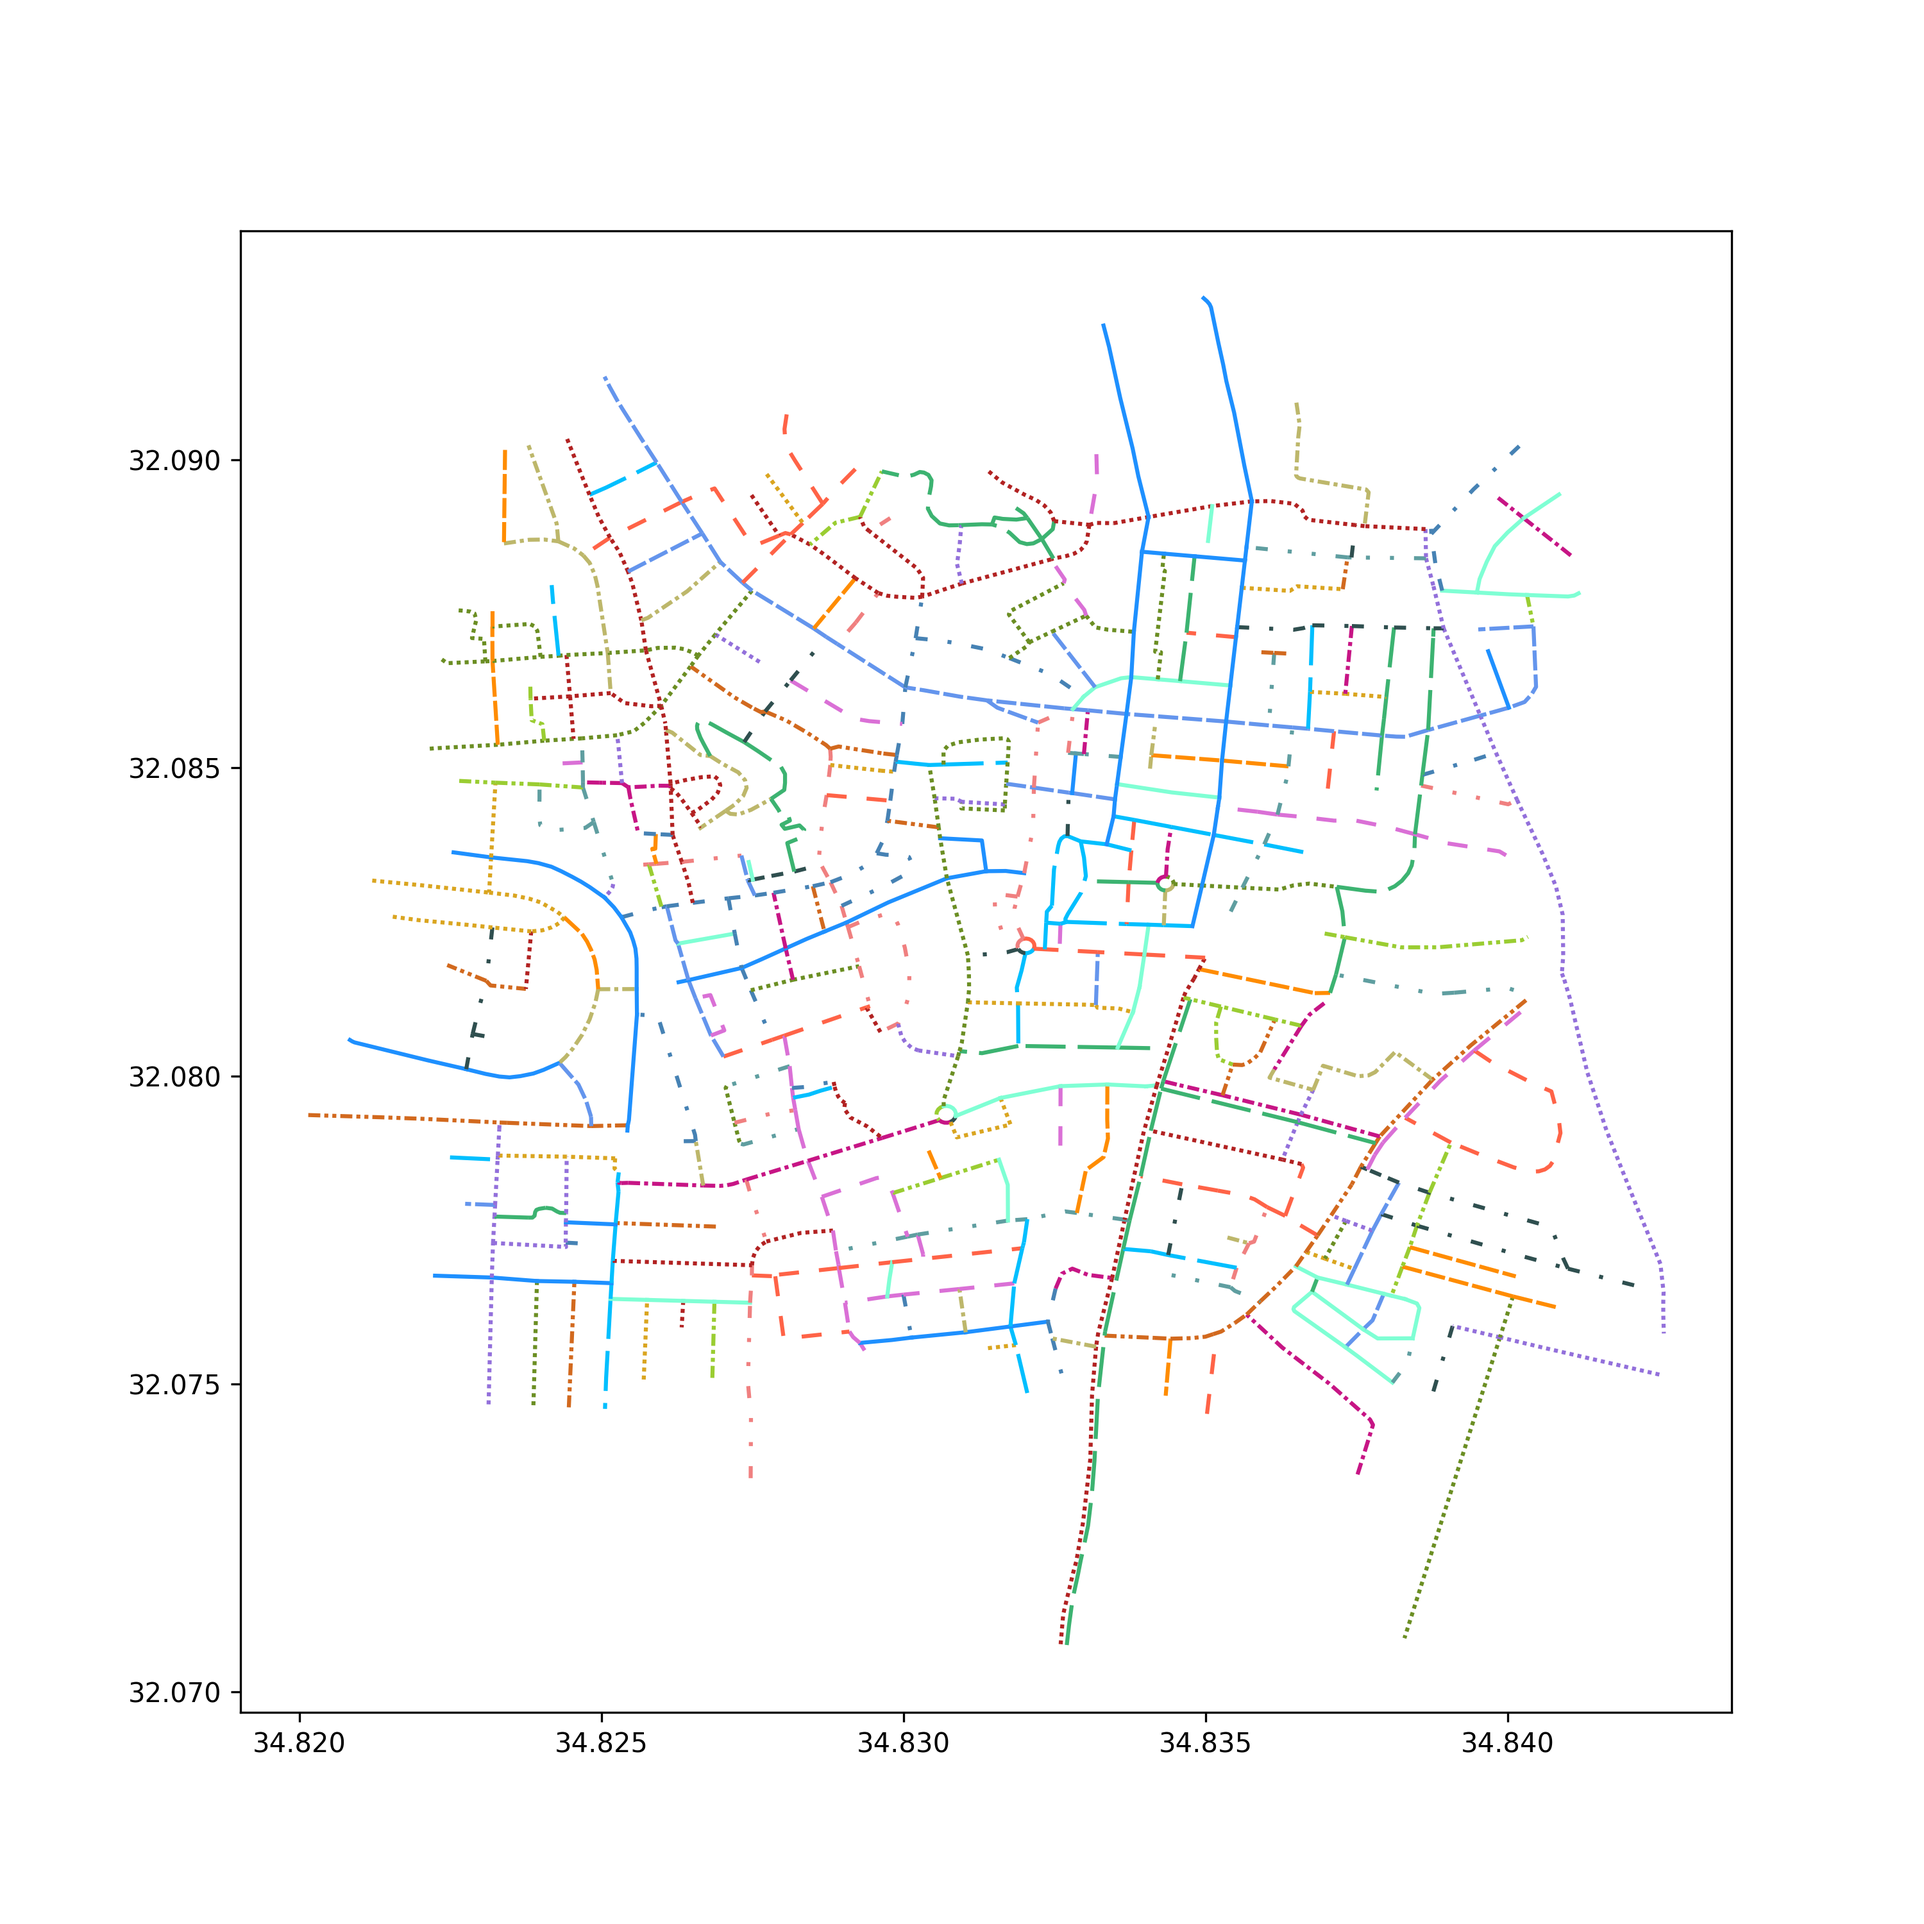
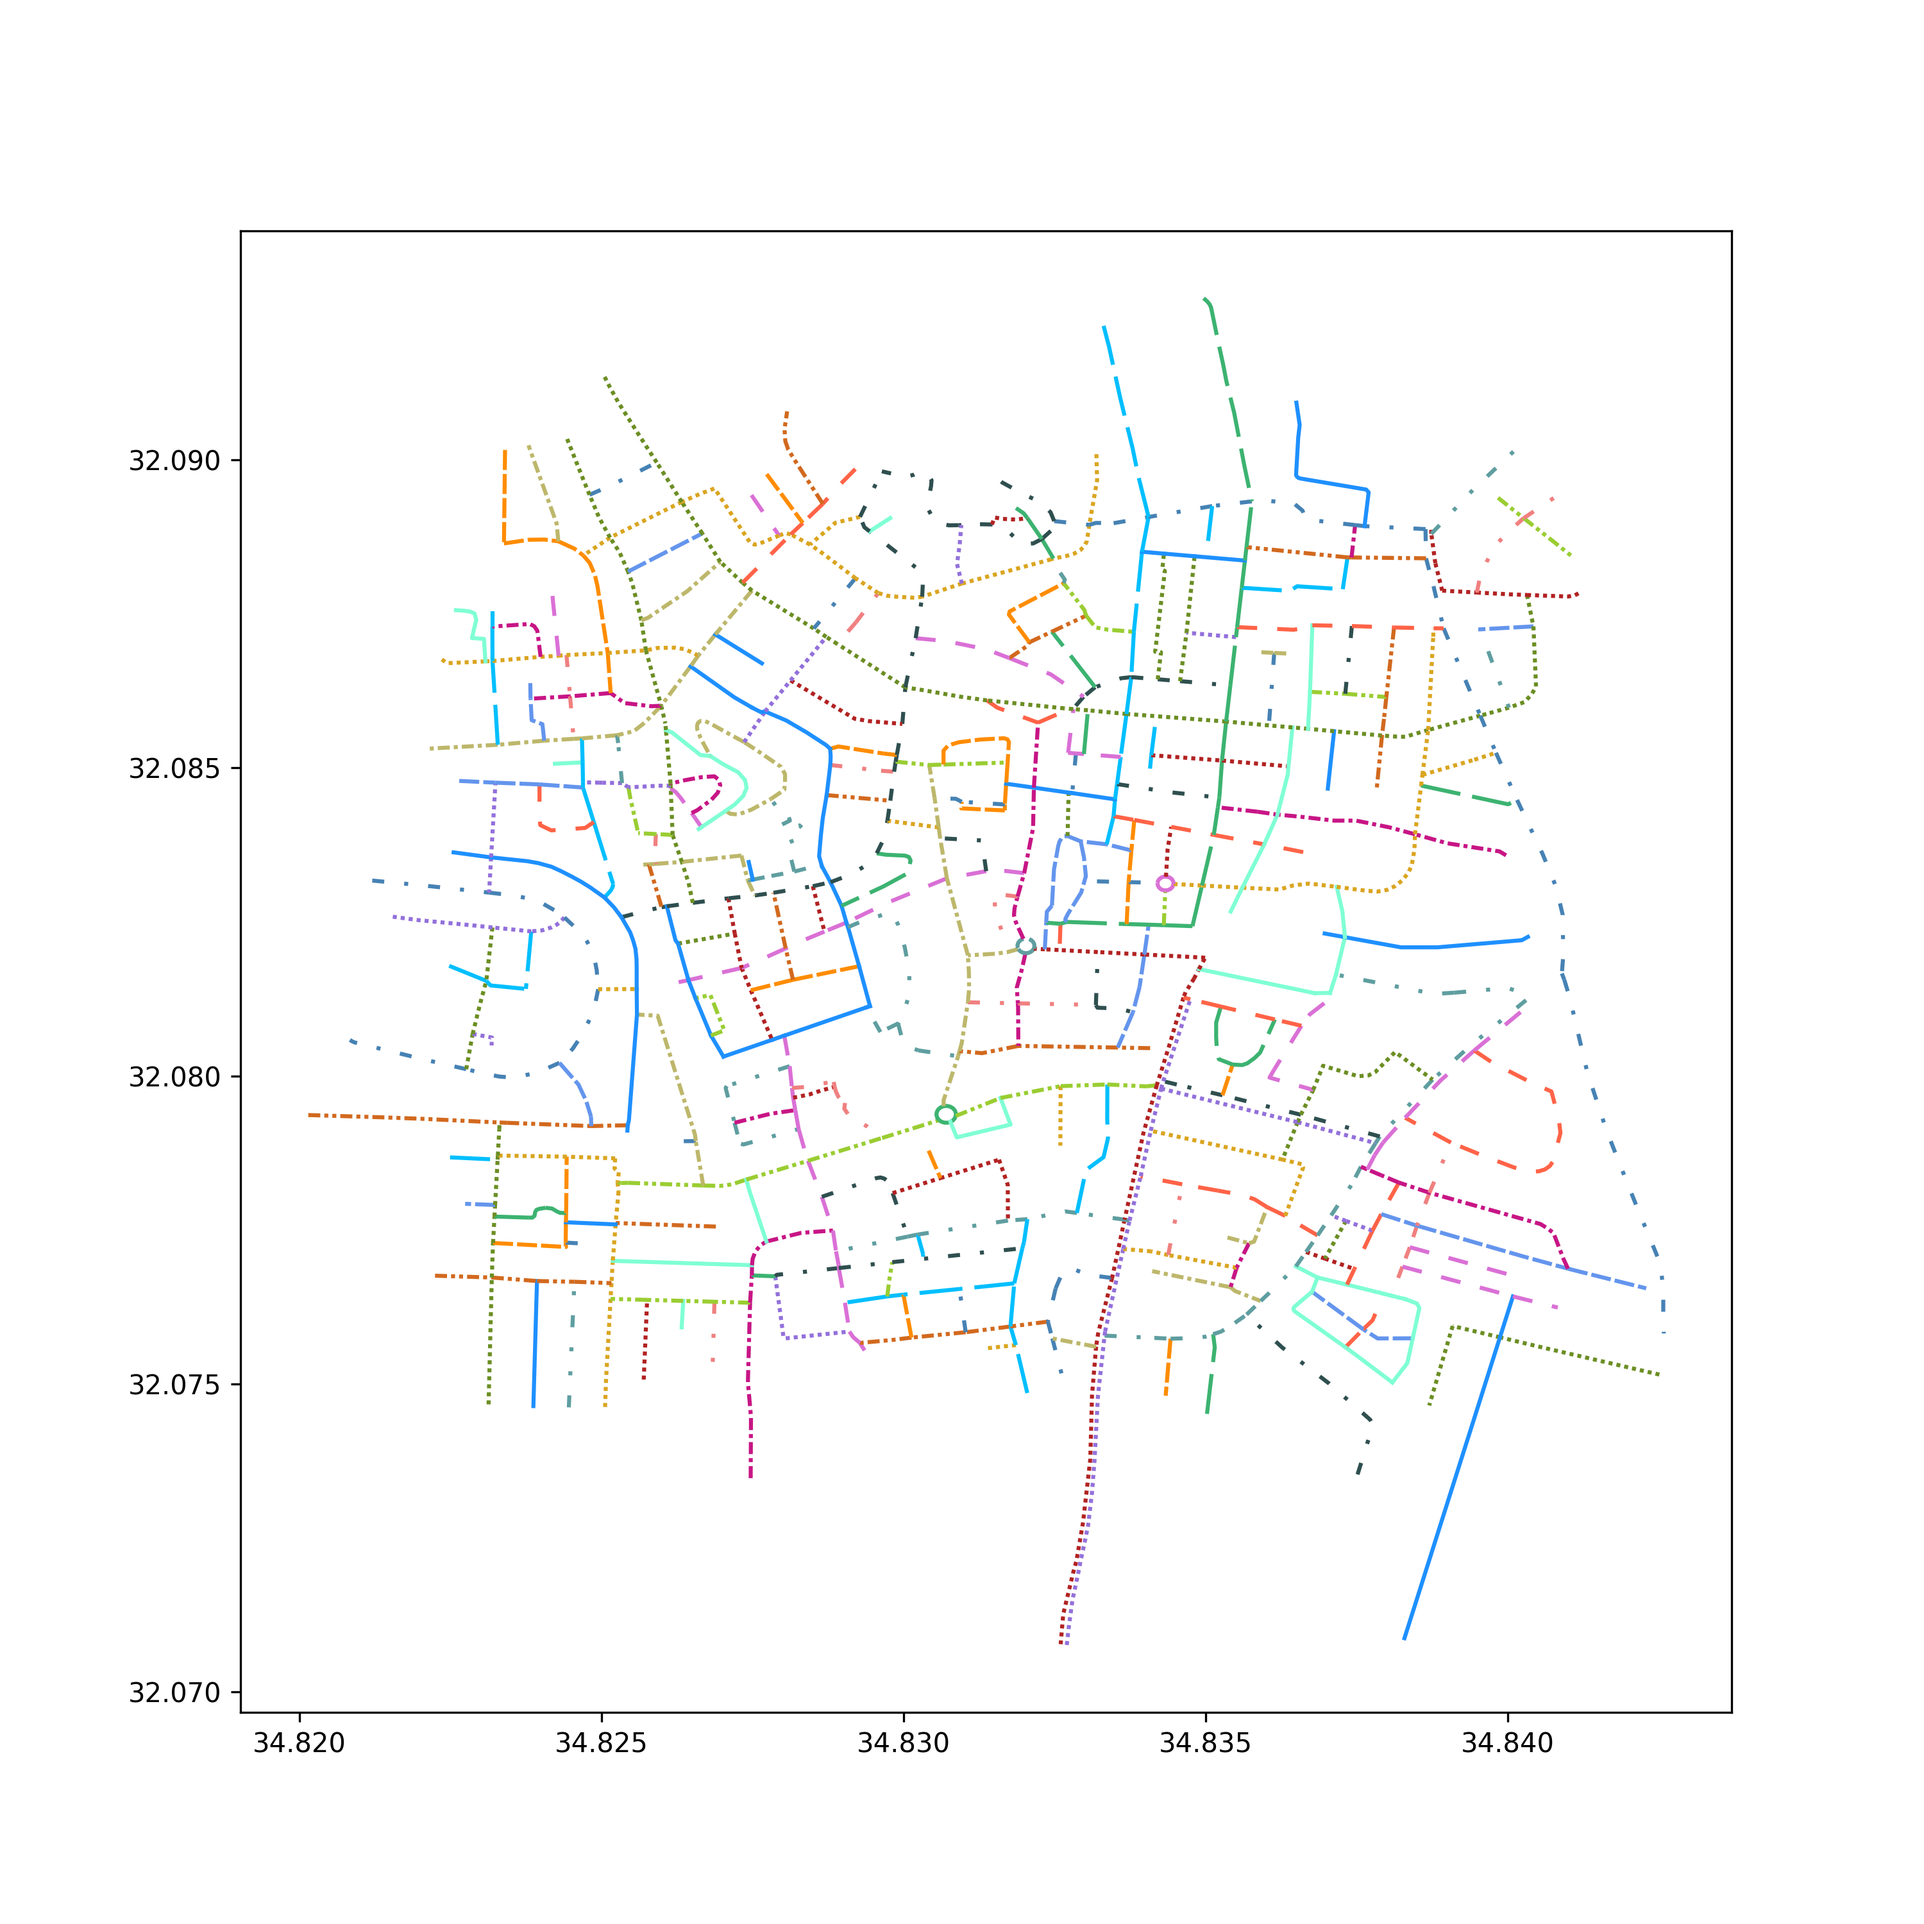
Everything working

diff --git a/main.py b/main.py
@@ -1,16 +1,17 @@
+import math
 import geopandas as gpd
 import matplotlib.pyplot as plt
-import math
 from styles import COLORS, STYLES
 from itertools import cycle
+from shapely.geometry import Point, LineString
 
 OUTPUT_SIZE = 3000
 OUTPUT_RES = 300
-MAX_ANGLE = 33
+MAX_ANGLE = 45
 
 INPUT_PATH = 'sample/roads.shp'
-OUTPUT_PATH = 'output/solution.png'
-VARIED_STYLES = False
+OUTPUT_PATH = 'output/solution_varied.png'
+VARIED_STYLES = True
 
 color_iter = cycle(COLORS)
 style_iter = cycle(STYLES)
@@ -36,56 +37,77 @@ def pick_new_style():
         return (next(color_iter), next(style_iter))
     return (next(color_iter), (None, None))
 
-def get_vector_from_points(points):
-    p1, p2 = points[-2], points[-1]
-    return (p2[0] - p1[0], p2[1] - p1[1])
-
 def angle_between(v1, v2):
     dot_product = v1[0] * v2[0] + v1[1] * v2[1]
     mag_v1 = math.sqrt(v1[0] ** 2 + v1[1] ** 2)
     mag_v2 = math.sqrt(v2[0] ** 2 + v2[1] ** 2)
     cos_angle = dot_product / (mag_v1 * mag_v2)
     angle = math.degrees(math.acos(max(min(cos_angle, 1), -1)))
-    if angle > 90 + MAX_ANGLE:
-        angle = abs(angle - 180)
-    #print(angle)
+    angle = min(angle,180-angle)
     return angle
 
 def dfs_color(row, geodataframe, current_style):
     if row['style']:
-        print(f"Row {row.name} already has style: {row['style']}")
         return
 
     geodataframe.at[row.name, 'style'] = current_style
-    print(f"Assigning style {current_style} to row {row.name}")
     
-    neighbors = geodataframe[geodataframe.geometry.touches(row.geometry) & ~geodataframe.index.isin([row.name])]
+    start_point = Point(row.geometry.coords[0])
+    end_point = Point(row.geometry.coords[-1])
+    
+    start_segment   = LineString([row.geometry.coords[0],   row.geometry.coords[1]])
+    end_segment     = LineString([row.geometry.coords[-1],  row.geometry.coords[-2]])
+    
+    start_candidates = geodataframe.loc[
+        geodataframe.geometry.intersects(start_point) & 
+        ~geodataframe.index.isin([row.name])
+    ]
+    end_candidates = geodataframe.loc[
+        geodataframe.geometry.intersects(end_point) & 
+        ~geodataframe.index.isin([row.name])
+    ]
+    
+    start_neighbor = identify_street_continuation(start_segment, start_candidates)
+    end_neighbor = identify_street_continuation(end_segment, end_candidates)
+    
+    if start_neighbor is not None: 
+        dfs_color(start_neighbor, geodataframe, current_style)
+    if end_neighbor is not None:
+        dfs_color(end_neighbor, geodataframe, current_style)
+        
 
-    print(f"Row {row.name} has {len(neighbors)} neighbors.")
-
+def identify_street_continuation(segment, neighbors):
     if neighbors.empty:
-        return
+        return None
 
     if len(neighbors) == 1:
-        if not neighbors.iloc[0].style:
-            print(f"Recursively coloring single neighbor of row {row.name}.")
-            dfs_color(neighbors.iloc[0], geodataframe, current_style)
+        if neighbors.iloc[0].style:
+            return None
+        return neighbors.iloc[0]
+    
+    target_vector = (segment.coords[1][0] - segment.coords[0][0], 
+                     segment.coords[1][1] - segment.coords[0][1])
+    smallest_angle = float('inf')
+    smallest_angle_neighbor = None
+    
+    for _, neighbor in neighbors.iterrows():
+        if Point(neighbor.geometry.coords[0]).intersects(segment):
+            neighbor_vector = (neighbor.geometry.coords[1][0]  - neighbor.geometry.coords[0][0], 
+                            neighbor.geometry.coords[1][1]  - neighbor.geometry.coords[0][1])
+        else:
+            neighbor_vector = (neighbor.geometry.coords[-1][0] - neighbor.geometry.coords[-2][0], 
+                            neighbor.geometry.coords[-1][1] - neighbor.geometry.coords[-2][1])
+
+        angle = angle_between(target_vector, neighbor_vector)
+
+        if angle < smallest_angle:
+            smallest_angle_neighbor = neighbor
+            smallest_angle = angle
+            
+    if smallest_angle <= MAX_ANGLE:
+        return smallest_angle_neighbor
     else:
-        target_vector = get_vector_from_points(list(row.geometry.coords))
-
-        for _, neighbor in neighbors.iterrows():
-            neighbor_vector = get_vector_from_points(list(neighbor.geometry.coords))
-            angle = angle_between(target_vector, neighbor_vector)
-            print(f"Angle between row {row.name} and neighbor {neighbor.name} is {angle} degrees.")
-
-            if angle <= MAX_ANGLE:
-                if not neighbor.style:
-                    print(f"Recursively coloring neighbor {neighbor.name} because angle {angle} is less than {MAX_ANGLE} degrees.")
-                    dfs_color(neighbor, geodataframe, current_style)
-                else:        
-                    print(f"Not coloring neighbor {neighbor.name} because angle it was already visited.")
-            else:
-                print(f"Not coloring neighbor {neighbor.name} because angle {angle} is more than {MAX_ANGLE} degrees")
+        return None
 
 def main():
     geodataframe = read_shp(INPUT_PATH)
